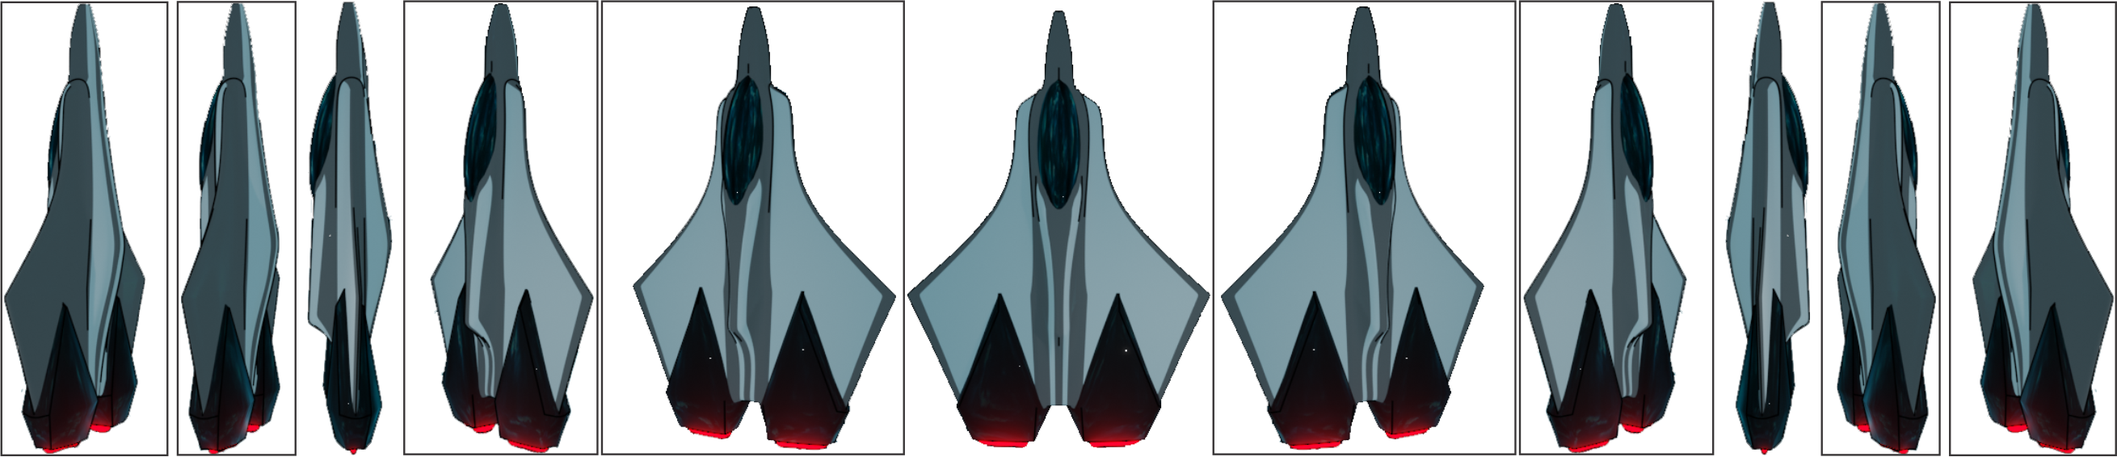
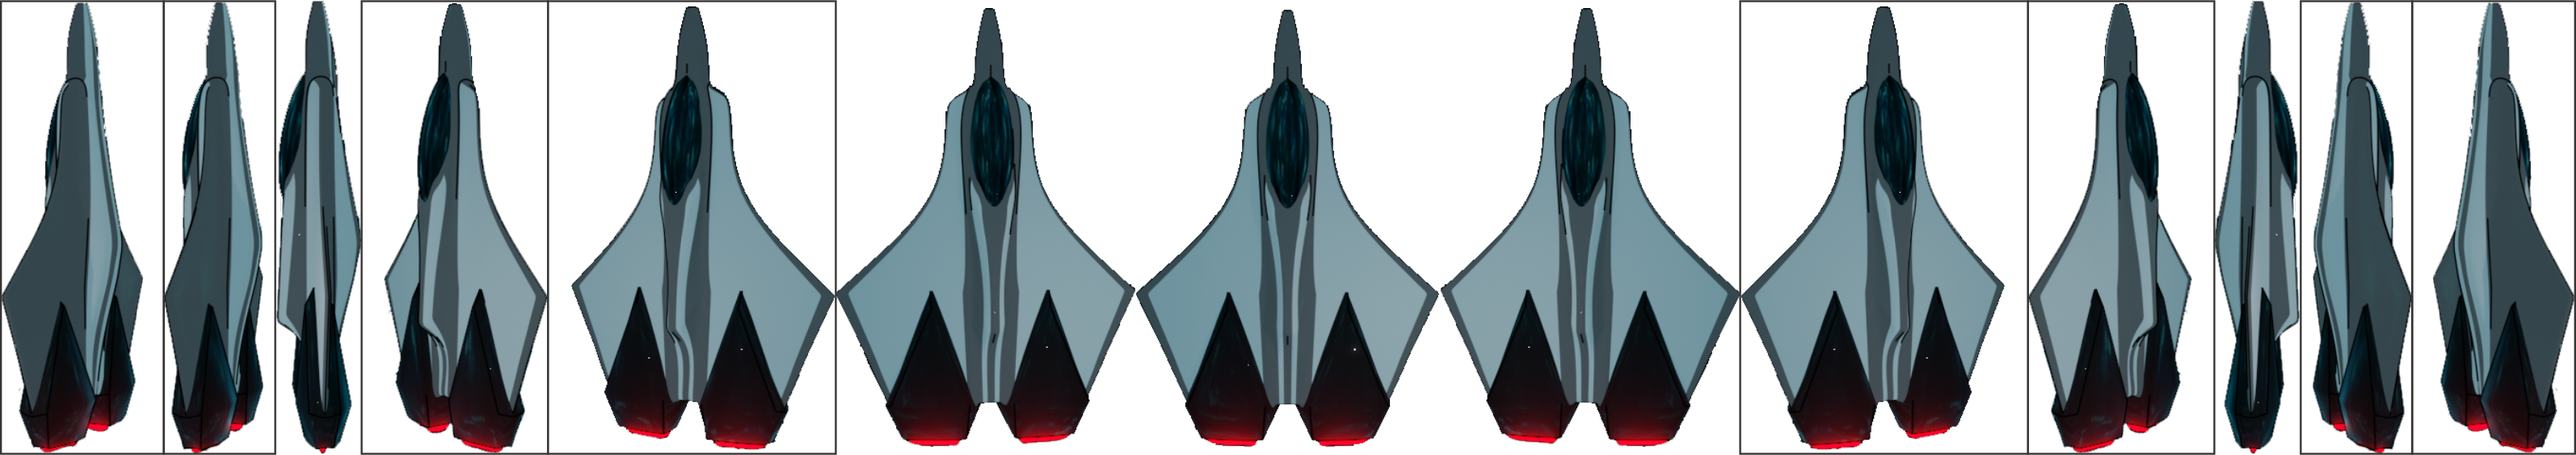
sprite nave

diff --git a/src/Player.js b/src/Player.js
@@ -1,19 +1,10 @@
-export default class Player{
-    constructor(canvas,controleBala){
-
-        //posição na tela
-        //this.x = x;
-        //this.y = y;
-
-        //tamnho do objeto
-        //this.width = 50;
-        //this.height = 50;
-
+export default class Player {
+    constructor(canvas, controleProjeteis) {
         //velocidade
         this.velocidade = 4;
 
         //tiro
-        this.controleBala = controleBala;
+        this.controleProjeteis = controleProjeteis;
 
         //entradas do tecaldo
         document.addEventListener('keydown', this.teclaPressionada);
@@ -21,16 +12,29 @@ export default class Player{
 
         //imagens
         const image = new Image();
-        image.src = './src/imgs/t.png'
+        image.src = './src/imgs/nave.png'
+        this.escala = 0.3
 
-        image.onload = () =>{
-            const escala = 0.3;
+        image.onload = () => {
+
             this.image = image
-            this.width = image.width * escala
-            this.height = image.height * escala
-            this.posicao= {
-                x: canvas.width /2 - this.width /2,
-                y: canvas.height - this.height - 50
+
+            this.iRecorte = {
+                x: 1405,
+                y: 9
+            }
+            
+            this.tRecorte = {
+                x: 379,
+                y: 554
+            }
+
+            this.largura = this.tRecorte.x * this.escala;
+            this.altura = this.tRecorte.y * this.escala;
+
+            this.pTela = {
+                x: canvas.width / 2 - this.largura / 2,
+                y: canvas.height - this.altura - 50
             }
         }
     }
@@ -40,27 +44,34 @@ export default class Player{
         //função mover
         this.mover();
 
-        //Estilo do objeto
-       // c.fillStyle = 'yellow';
-        //c.fillRect(this.x,this.y,this.width,this.height); 
-
-        if(this.image){
-            c.drawImage(this.image, this.posicao.x, this.posicao.y, this.width,this.height)
+        //nave
+        if (this.image) {
+            c.drawImage(
+                this.image,
+                this.iRecorte.x,
+                this.iRecorte.y,
+                this.tRecorte.x,
+                this.tRecorte.y,
+                this.pTela.x,
+                this.pTela.y,
+                this.largura,
+                this.altura
+            );
         }
-        
+
         //tiro
         this.atrirar();
     }
 
     // atirar
-    atrirar(){
-        if(this.espacoPressionar){
-            const x = this.posicao.x + this.width / 2;
-            const y = this.posicao.y;
+    atrirar() {
+        if (this.espacoPressionar) {
+            const x = this.pTela.x + this.largura / 2;
+            const y = this.pTela.y;
             const velocidade = 5;
             const atraso = 10;
             const dano = 2;
-            this.controleBala.tiro(x,y,velocidade,atraso,dano);
+            this.controleProjeteis.tiro(x, y, velocidade, atraso, dano);
         }
     }
 
@@ -68,24 +79,24 @@ export default class Player{
     mover() {
         //if(this.downPressed){this.y += this.velocidade}
         //if(this.upPressed){this.y -= this.velocidade}
-        if(this.leftPressPressed){this.posicao.x -= this.velocidade}
-        if(this.rightPressed){this.posicao.x += this.velocidade}
+        if (this.leftPressPressed) { this.pTela.x -= this.velocidade }
+        if (this.rightPressed) { this.pTela.x += this.velocidade }
     }
     //quando a tecla é pressionada
-    teclaPressionada =(e) => {
-       // if(e.code === 'ArrowUp'){this.upPressed = true}
-       // if(e.code === 'ArrowDown'){this.downPressed = true}
-        if(e.code === 'ArrowLeft'){this.leftPressPressed = true}
-        if(e.code === 'ArrowRight'){this.rightPressed = true}
-        if(e.code === 'Space'){this.espacoPressionar = true}
+    teclaPressionada = (e) => {
+        // if(e.code === 'ArrowUp'){this.upPressed = true}
+        // if(e.code === 'ArrowDown'){this.downPressed = true}
+        if (e.code === 'ArrowLeft') { this.leftPressPressed = true }
+        if (e.code === 'ArrowRight') { this.rightPressed = true }
+        if (e.code === 'Space') { this.espacoPressionar = true }
     }
 
     //Quando a tecla é solta 
-    teclaSolta =(e) => {
+    teclaSolta = (e) => {
         //if(e.code === 'ArrowUp'){this.upPressed = false}
         //if(e.code === 'ArrowDown'){this.downPressed = false}
-        if(e.code === 'ArrowLeft'){this.leftPressPressed = false}
-        if(e.code === 'ArrowRight'){this.rightPressed = false}
-        if(e.code === 'Space'){this.espacoPressionar = false}
+        if (e.code === 'ArrowLeft') { this.leftPressPressed = false }
+        if (e.code === 'ArrowRight') { this.rightPressed = false }
+        if (e.code === 'Space') { this.espacoPressionar = false }
     }
 }

diff --git a/src/Meteoro.js b/src/Meteoro.js
@@ -1,16 +1,7 @@
-export default class Meteoro{
-    constructor(){
-        //posição na tela
-        //this.x = x;
-        //this.y = y;
-
-        //tamanho do objeto
-        //this.width = width;
-        //this.height = height;
-
+export default class Meteoro{   
+    constructor(pTelaX,pTelaY,peso){
         //peso do meteoro
-        //this.peso = (this.width + this.height) / 2;
-        this.peso = 300;
+        this.peso = peso;
 
         //imagens
        const image = new Image();
@@ -23,16 +14,16 @@ export default class Meteoro{
                 x:0,
                 y:0,
             }
-            this.tamanhoOriginal ={
+            this.tRecorte ={
                 x:580,
                 y:1087
             }
             this.posicaoNaTela ={
-                x: 10,
-                y: 10
+                x: pTelaX,
+                y: pTelaY
             }
-            this.largura = this.tamanhoOriginal.x * this.escala
-            this.altura = this.tamanhoOriginal.y * this.escala
+            this.largura = this.tRecorte.x * this.escala
+            this.altura = this.tRecorte.y * this.escala
         }
     }
 
@@ -41,7 +32,17 @@ export default class Meteoro{
         //imagem do meteoro
         if(this.image){
             //c.drawImage(this.image,0,0,580,1087,10,10,580*0.2,1087*0.2);
-            c.drawImage(this.image,this.recorte.x,this.recorte.y,this.tamanhoOriginal.x,this.tamanhoOriginal.y,this.posicaoNaTela.x,this.posicaoNaTela.y,this.largura,this.altura);
+            c.drawImage(
+                this.image,
+                this.recorte.x,
+                this.recorte.y,
+                this.tRecorte.x,
+                this.tRecorte.y,
+                this.posicaoNaTela.x,
+                this.posicaoNaTela.y,
+                this.largura,
+                this.altura
+            );
         }
 
         //stilo do Meteoro

diff --git a/main.js b/main.js
@@ -1,6 +1,6 @@
 import Player from './src/Player.js';
 import Meteoro from './src/Meteoro.js';
-import ControleBala from './src/ControleBalas.js';
+import ControleProjeteis from './src/ControleProjeteis.js';
 
 //capiturar a area de redenização do jogo
 const canvas = document.querySelector('canvas');
@@ -12,22 +12,21 @@ canvas.height = innerHeight; //600
 
 // criar os objetos para acena
     //Contorle de Bala
-const contreleBala = new ControleBala();
+const controleProjetil = new ControleProjeteis();
 
     //player
-const player = new Player(canvas, contreleBala);
+const player = new Player(canvas, controleProjetil);
 
     //meteoro
 //const meteoro = new Meteoro(50, 50, 100,200);
-const meteoro = new Meteoro(canvas);
+//const meteoro = new Meteoro();
 
     //vários meteoros
-/*const meteoros = [
-    new Meteoro(50,50,100,120),
-    new Meteoro(50,250,90,40),
-    new Meteoro(250,50,190,200),
-]*/
-
+const meteoros = [
+    new Meteoro(50,50,100),
+    new Meteoro(150,250,90),
+    new Meteoro(250,50,190),
+]
 
 //gameLopp => coração do Jogo
 
@@ -41,22 +40,22 @@ function gameLopp() {
     player.draw(c);
     
     //bala
-    contreleBala.draw(c);
+    controleProjetil.draw(c);
 
     //desenhar o meteoro
-    meteoro.draw(c);
+    //meteoro.draw(c);
 
     //para vários meteoros
-    /*
+    
     meteoros.forEach((meteoro)=>{
         //colisão com meteoro
-        if (contreleBala.colisao(meteoro)){
+        if (controleProjetil.colisao(meteoro)){
             if(meteoro.peso <= 0){
                 const index = meteoros.indexOf(meteoro);
                 meteoros.splice(index, 1);
             }
         }else{meteoro.draw(c)}
-    });*/
+    });
 }
 
 // controlar os frames

diff --git a/src/ControleProjeteis.js b/src/ControleProjeteis.js
@@ -1,0 +1,54 @@
+import Projetil from './Projetil.js';
+
+//fazer o score
+const scoreEl = document.querySelector('#score');
+let score = 0;
+
+export default class ControleProjeteis {
+    projeteis = [];
+    atrasoNoTiro = 0;
+
+    constructor() {
+    }
+
+    tiro(x, y,velocidade,atraso,dano) {
+
+        if (this.atrasoNoTiro <= 0){
+         this.projeteis.push(new Projetil(x, y,velocidade,dano));
+         this.atrasoNoTiro = atraso;
+        }
+        this.atrasoNoTiro --;
+    }
+
+    draw(c) {
+        //console.log(this.projeteis.length);
+
+        this.projeteis.forEach((projetil) => {
+            //limpar os tiros da memoria
+            if(this.seprojeteisSairamDaTela(projetil)){
+                const index = this.projeteis.indexOf(projetil);
+                this.projeteis.splice(index, 1);
+            }
+            projetil.draw(c);
+        })
+    }
+
+    colisao(meteoro){
+        return this.projeteis.some((projetil) =>{
+            if(projetil.colisao(meteoro)){
+                this.projeteis.splice(this.projeteis.indexOf(projetil), 1);
+
+                 //score implementação
+                 score += 100;
+                 scoreEl.innerHTML = score;
+
+                return true;
+            }
+            return false;
+        })
+    }
+
+    seprojeteisSairamDaTela(projetil) {
+        return projetil.y <= -projetil.height;
+    }
+}

diff --git a/src/Projetil.js b/src/Projetil.js
@@ -1,4 +1,4 @@
-export default class Bala{
+export default class Projetil{
     constructor(x,y,velocidade,dano){
         //posição
         this.x = x;
